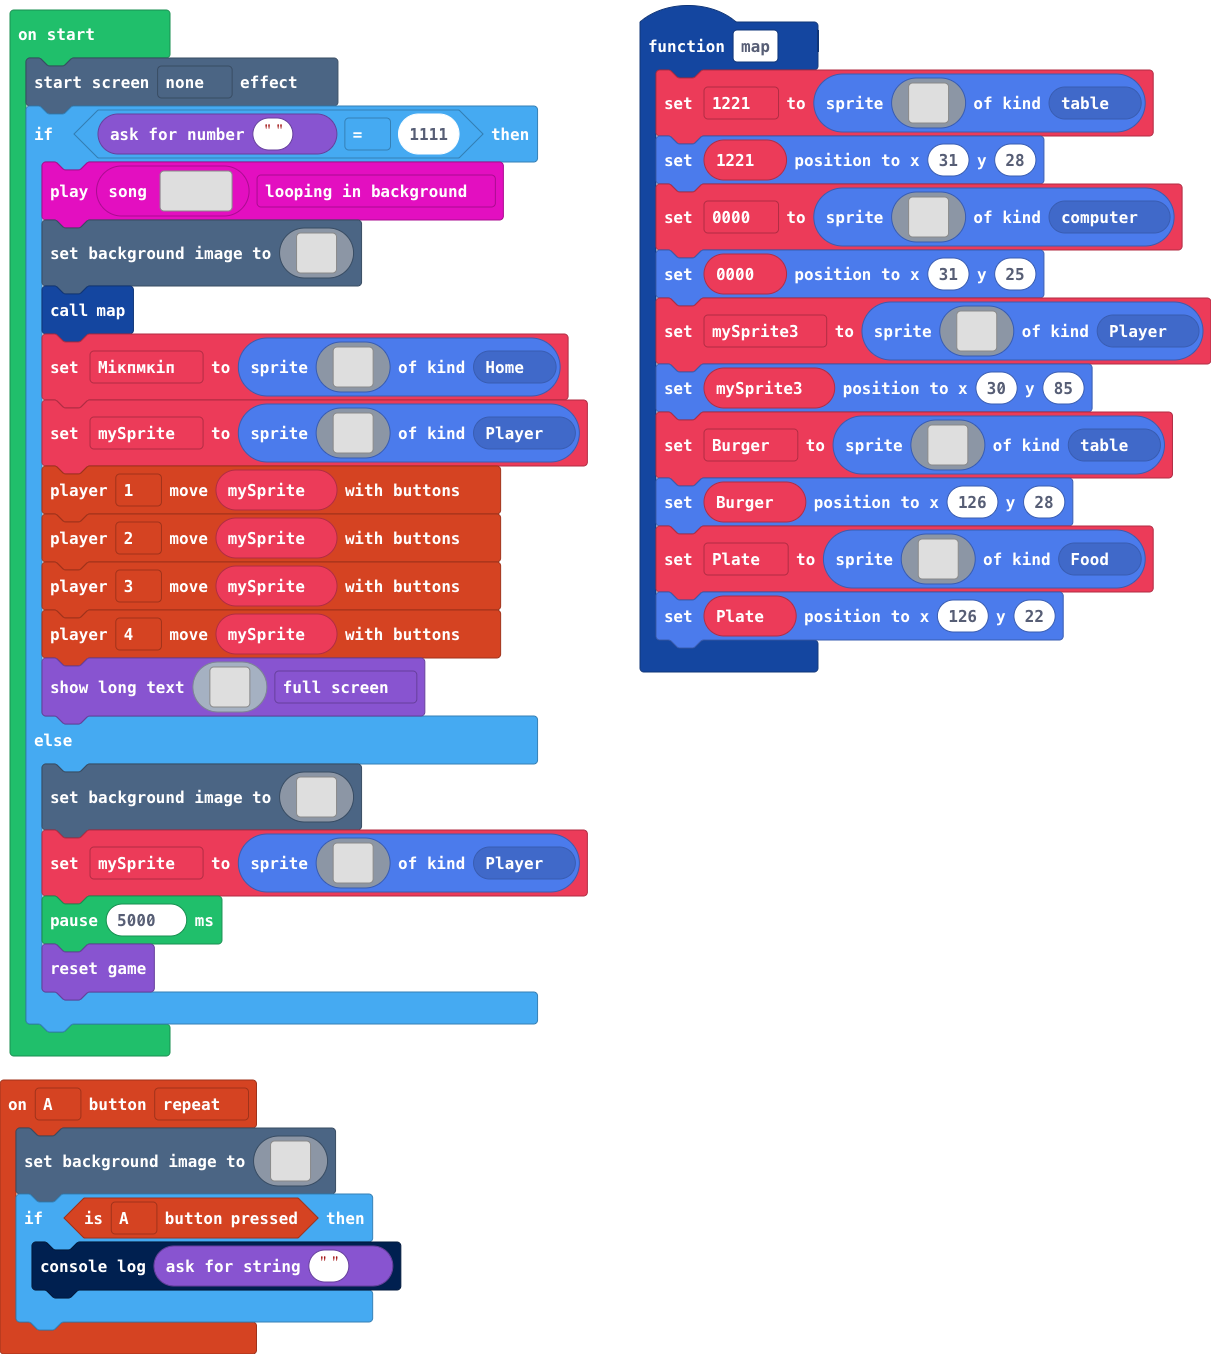
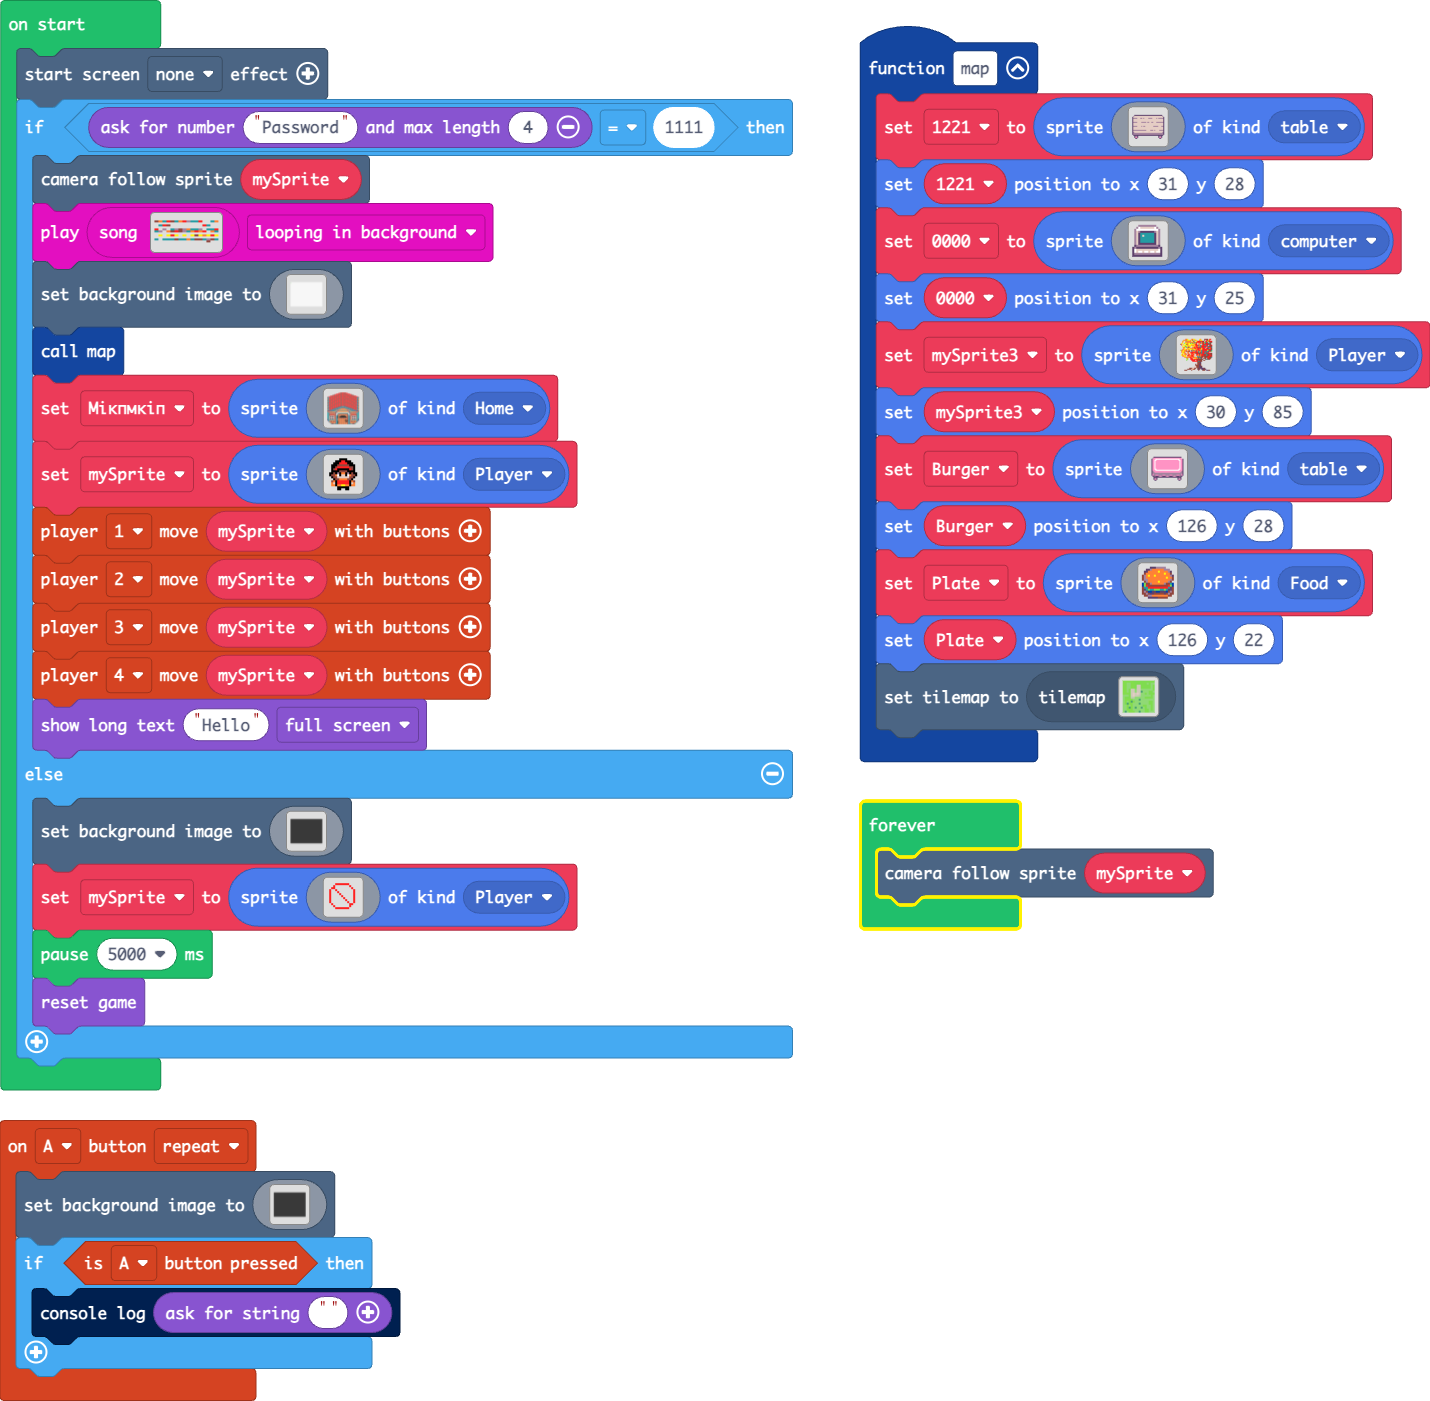
Update main.blocks, main.ts, images.g.jres, images.g.ts, tilemap.g.jres, tilemap.g.ts

diff --git a/images.g.ts b/images.g.ts
@@ -364,60 +364,6 @@ cbbbbbbbbbbbbbbbbbbbbbbbbbbbbbbc
 ..c33c....................c33c..
 ...cc......................cc...
 `;
-            case "image2":
-            case "computer":return img`
-. . . b b b b b b b b b . . . . 
-. . b 1 d d d d d d d 1 b . . . 
-. b 1 1 1 1 1 1 1 1 1 1 1 b . . 
-. b d b c c c c c c c b d b . . 
-. b d c 6 6 6 6 6 6 6 c d b . . 
-. b d c 6 d 6 6 6 6 6 c d b . . 
-. b d c 6 6 6 6 6 6 6 c d b . . 
-. b d c 6 6 6 6 6 6 6 c d b . . 
-. b d c 6 6 6 6 6 6 6 c d b . . 
-. b d c c c c c c c c c d b . . 
-. c b b b b b b b b b b b c . . 
-c b c c c c c c c c c c c b c . 
-c 1 d d d d d d d d d d d 1 c . 
-c 1 d 1 1 d 1 1 d 1 1 d 1 1 c . 
-c b b b b b b b b b b b b b c . 
-c c c c c c c c c c c c c c c . 
-`;
-            case "image3":
-            case "tree9":return img`
-.....75....757....57..7.....77..
-..5.55555.577775..755.7..7757...
-..5.577.565747.766777766775e777.
-....775.77577667677676776767777.
-55.757.75676777777777767c77667..
-7e5454777777765567776766677677.7
-..77757777777566667676566777677.
-.5.7657577775777777667677766766.
-.7777674576767777676677677776767
-..77..77777577777777577757767c67
-..775755777755777777577777776777
-.55557755.7567777777677777566.66
-.557777ee7677767767767767667677.
-.577.77777777767767e67776767....
-.5577777.775777776776776676777.6
-5..777777.77777777776767767766..
-5.557...77777777776767767667.66.
-..555.7777.77.756767cc667677676.
-...7...77777.777676657767776776.
-.....77....7.5577e7665.7...666..
-.....57....77..666767..7.6......
-.....7..........4eeee.6.........
-................46ee6...........
-................4eeec...........
-................4eeec...........
-...............e4eece...........
-...............eeeece...........
-..............44eeecce..........
-............444eeeeccc..........
-.........eee44ee.ececccec.......
-.......eeee.4ee..ece.cccec......
-....eee....e......e...eee.ccee..
-`;
             case "image4":
             case "Chicken2":return img`
 ..cccccccccccccccccccccccccccc..
@@ -605,6 +551,60 @@ e e b e c c e e e e e c e b e e
 1111111111111111111111111111111111111111111111111111111111111111111111111111111111111111111111111111111111111111111111111111111111111111111111111111111111111111
 1111111111111111111111111111111111111111111111111111111111111111111111111111111111111111111111111111111111111111111111111111111111111111111111111111111111111111
 1111111111111111111111111111111111111111111111111111111111111111111111111111111111111111111111111111111111111111111111111111111111111111111111111111111111111111
+`;
+            case "image3":
+            case "tree9":return img`
+.....445...4455....54...eeee.22.
+...444455545e.445..455..e.2e52..
+..45.474444.5e5.522222ee.225e222
+..4..44444444464222264e27626.2ee
+.55.7554556564472.4424e27c2266e.
+e4d5.5e45.5555422.44..e2222ee2e.
+.4.5555455544452226464226622.ee2
+..5.5655455.55442444622222266eee
+..544564c4..44242262622262d22226
+...45..455444422422225222d2c672e
+..44554545554554422445222222222e
+7445444.44.e46442422462222256ee6
+.45544e4ee.64446246446226266e2e7
+.4544.d44d2222222264e62226262...
+..5544.44.42244ee2ee262266e222ee
+.54.444.24.242dd224c422ee26ee2ee
+.54554.2244224dd24424222e26ee22e
+..4455.4444224.dd6464eeeeeee22e2
+....44444224424446e6ee2.eee22ee6
+......74..224.5544e46e.eee.e2ee.
+......57..2224222eeeeee..e6eee..
+......7....2222.2e2eee.ee.......
+............22222e6eee..........
+................deeec...........
+................deeec...........
+...............edeece...........
+...............eeeece...........
+..............ddeeecce..........
+............ddddeeeccc..........
+.........eeeddee.ececccec.......
+.......eeee.4ee..ece.cccec......
+....eee....e......e...eee.ccee..
+`;
+            case "image2":
+            case "Hello":return img`
+. . . b b b b b b b b b . . . . 
+. . b 1 d d d d d d d 1 b . . . 
+. b 1 1 1 1 1 1 1 1 1 1 1 b . . 
+. b d b c c c c c c c b d b . . 
+. b d c 6 6 6 6 6 6 6 c d b . . 
+. b d c 6 d 6 6 6 6 6 c d b . . 
+. b d c 6 6 6 6 6 6 6 c d b . . 
+. b d c 6 6 6 6 6 6 6 c d b . . 
+. b d c 6 6 6 6 6 6 6 c d b . . 
+. b d c c c c c c c c c d b . . 
+. c b b b b b b b b b b b c . . 
+c b c c c c c c c c c c c b c . 
+c 1 d d d d d d d d d d d 1 c . 
+c 1 d 1 1 d 1 1 d 1 1 d 1 1 c . 
+c b b b b b b b b b b b b b c . 
+c c c c c c c c c c c c c c c . 
 `;
         }
         return null;

diff --git a/tilemap.g.ts b/tilemap.g.ts
@@ -3,6 +3,50 @@ namespace myTiles {
     //% fixedInstance jres blockIdentity=images._tile
     export const transparency16 = image.ofBuffer(hex``);
 
+    helpers._registerFactory("tilemap", function(name: string) {
+        switch(helpers.stringTrim(name)) {
+            case "level1":
+            case "level1":return tiles.createTilemap(hex`1000100000000000000000000000000000000000000000000000000000000000000000000000000000000000000000000000000000000000000000000000000000000000000000000000000000000000000000000000000000000000000000000000000000000000000000000000000000000000000000000000000000000000000000000000000000000000000000000000000000000000000000000000000000000000000000000000000000000000000000000000000000000000000000000000000000000000000000000000000000000000000000000000000000000000000000000000000000000000000000000000000000000000000000000000000000000000`, img`
+. . . . . . . . . . . . . . . . 
+. . . . . . . . . . . . . . . . 
+. . . . . . . . . . . . . . . . 
+. . . . . . . . . . . . . . . . 
+. . . . . . . . . . . . . . . . 
+. . . . . . . . . . . . . . . . 
+. . . . . . . . . . . . . . . . 
+. . . . . . . . . . . . . . . . 
+. . . . . . . . . . . . . . . . 
+. . . . . . . . . . . . . . . . 
+. . . . . . . . . . . . . . . . 
+. . . . . . . . . . . . . . . . 
+. . . . . . . . . . . . . . . . 
+. . . . . . . . . . . . . . . . 
+. . . . . . . . . . . . . . . . 
+. . . . . . . . . . . . . . . . 
+`, [myTiles.transparency16], TileScale.Sixteen);
+            case "level2":
[1 lines of base64/hex data omitted]
+. . . . . . . . . . . . . . . . 
+. . . . . . . . . . . . . . . . 
+. . . . . . . . . . . . . . . . 
+. . . . . . . . . . . . . . . . 
+. . . . . . . . . . . . . . . . 
+. . . . . . . . . . . . . . . . 
+. . . . . . . . . . . . . . . . 
+. . . . . . . . . . . . . . . . 
+. . . . . . . . . . . . . . . . 
+. . . . . . . . . . . . . . . . 
+. . . . . . . . . . . . . . . . 
+. . . . . . . . . . . . . . . . 
+. . . . . . . . . . . . . . . . 
+. . . . . . . . . . . . . . . . 
+. . . . . . . . . . . . . . . . 
+. . . . . . . . . . . . . . . . 
+`, [myTiles.transparency16,sprites.castle.tileGrass2,sprites.castle.tilePath6,sprites.castle.tilePath4,sprites.castle.tileGrass3,sprites.builtin.forestTiles0,sprites.castle.tilePath8,sprites.castle.tilePath9,sprites.castle.tilePath2,sprites.castle.tilePath5,sprites.castle.tileGrass1,sprites.castle.tilePath7], TileScale.Sixteen);
+        }
+        return null;
+    })
+
     helpers._registerFactory("tile", function(name: string) {
         switch(helpers.stringTrim(name)) {
             case "transparency16":return transparency16;

diff --git a/main.ts b/main.ts
@@ -7,7 +7,7 @@ namespace SpriteKind {
 function map () {
     _1221 = sprites.create(assets.image`table3`, SpriteKind.table)
     _1221.setPosition(31, 28)
-    _0000 = sprites.create(assets.image`computer`, SpriteKind.computer)
+    _0000 = sprites.create(assets.image`Hello`, SpriteKind.computer)
     _0000.setPosition(31, 25)
     mySprite3 = sprites.create(assets.image`tree9`, SpriteKind.Player)
     mySprite3.setPosition(30, 85)
@@ -15,6 +15,7 @@ function map () {
     Burger.setPosition(126, 28)
     Plate = sprites.create(assets.image`Plate`, SpriteKind.Food)
     Plate.setPosition(126, 22)
+    tiles.setCurrentTilemap(tilemap`level2`)
 }
 controller.A.onEvent(ControllerButtonEvent.Repeated, function () {
     scene.setBackgroundImage(img`
@@ -147,11 +148,12 @@ let Plate: Sprite = null
 let Burger: Sprite = null
 let mySprite3: Sprite = null
 let _0000: Sprite = null
-let mySprite: Sprite = null
 let Мікпмкіп: Sprite = null
+let mySprite: Sprite = null
 let _1221: Sprite = null
 effects.none.startScreenEffect()
-if (game.askForNumber("") == 1111) {
+if (game.askForNumber("Password", 4) == 1111) {
+    scene.cameraFollowSprite(mySprite)
     music.play(music.createSong(assets.song`melody`), music.PlaybackMode.LoopingInBackground)
     scene.setBackgroundImage(assets.image`backround`)
     map()
@@ -161,10 +163,13 @@ if (game.askForNumber("") == 1111) {
     controller.player2.moveSprite(mySprite)
     controller.player3.moveSprite(mySprite)
     controller.player4.moveSprite(mySprite)
-    game.showLongText(assets.image`computer`, DialogLayout.Full)
+    game.showLongText("Hello", DialogLayout.Full)
 } else {
     scene.setBackgroundImage(assets.image`black`)
     mySprite = sprites.create(assets.image`password incorect`, SpriteKind.Player)
     pause(5000)
     game.reset()
 }
+forever(function () {
+    scene.cameraFollowSprite(mySprite)
+})
